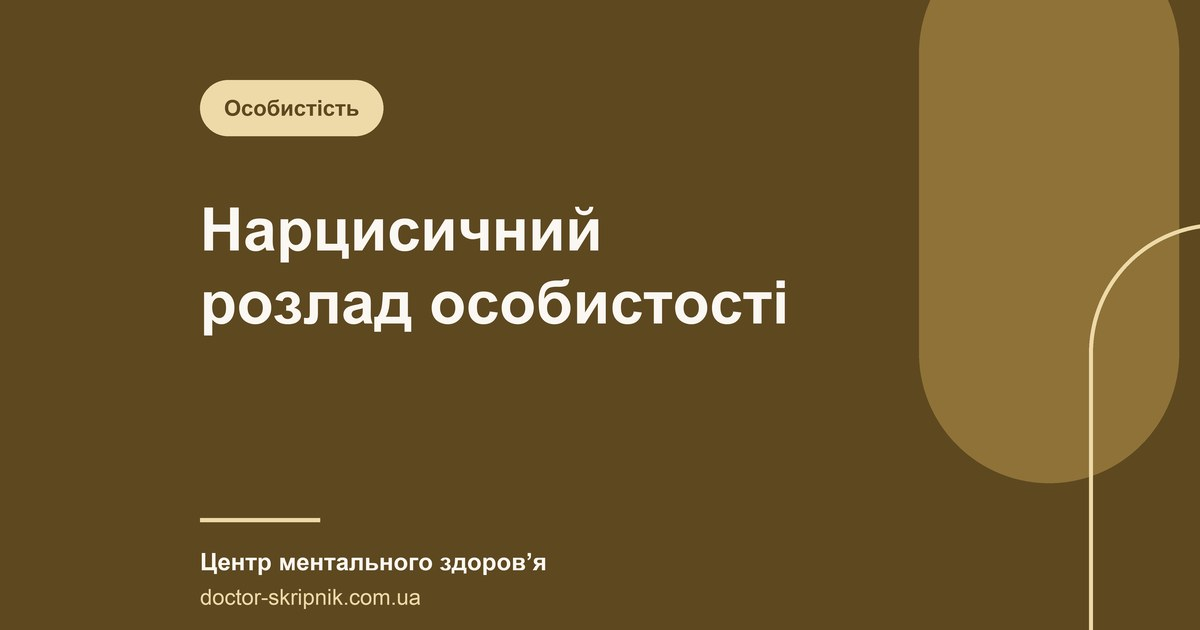
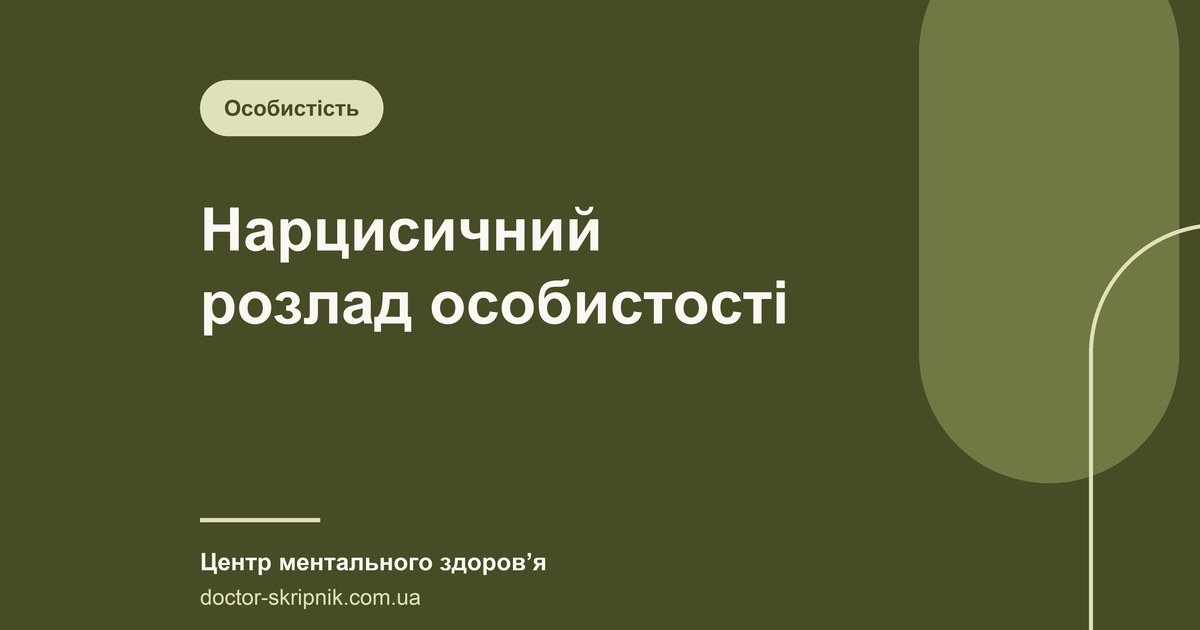
Give every article cover its own palette and show covers uncropped everywhere
Thirteen palettes now, and a new cover takes the least-used one (read from the
existing covers' backgrounds), so colours repeat as rarely as possible. The
eleven current covers each use a different palette. Article cards, the list
and the home thumbnails use the covers' 1200×630 shape instead of 16:10 / 4:3.

diff --git a/apps/frontend/src/app/features/articles/components/article-card/article-card.component.scss b/apps/frontend/src/app/features/articles/components/article-card/article-card.component.scss
@@ -28,7 +28,7 @@
 
   &__thumb {
     position: relative;
-    aspect-ratio: 16 / 10;
+    aspect-ratio: 1200 / 630; // the covers' own shape, so a banner is never cropped
     overflow: hidden;
     background: linear-gradient(160deg, $accent-color, $accent-soft);
   }

diff --git a/apps/frontend/src/app/features/articles/list/articles-list.component.scss b/apps/frontend/src/app/features/articles/list/articles-list.component.scss
@@ -239,7 +239,7 @@
   overflow: hidden;
   background: $paper;
 
-  &__thumb { aspect-ratio: 16 / 10; }
+  &__thumb { aspect-ratio: 1200 / 630; } // the covers' own shape
 
   &__body {
     display: flex;

diff --git a/apps/frontend/src/app/features/articles/components/latest-articles/latest-articles.component.scss b/apps/frontend/src/app/features/articles/components/latest-articles/latest-articles.component.scss
@@ -106,7 +106,7 @@
   background: $accent-soft;
 
   &--thumb {
-    aspect-ratio: 4 / 3;
+    aspect-ratio: 1200 / 630;
     margin-bottom: 0;
   }
 }

diff --git a/apps/frontend/scripts/make-article-cover.py b/apps/frontend/scripts/make-article-cover.py
@@ -2,8 +2,8 @@
 
     python3 apps/frontend/scripts/make-article-cover.py --title "Симптоми РДУГ у дорослих" --kicker "РДУГ" --out apps/frontend/src/assets/articles/<slug>.webp
 
-The palette rotates with the number of covers already in the output folder, so two
-consecutive articles never share colours; the composition and the shapes' size and
+The palette is the one least used by the covers already in the output folder (read from
+their background colour; ties go to the one used longest ago), so colours repeat as rarely as possible; the composition and the shapes' size and
 position come from the file name, so each article keeps its own look when regenerated.
 The cover is served from https://doctor-skripnik.com.ua/assets/articles/<slug>.webp once
 the frontend is deployed; set that URL as the article's coverImage. A 1200×630 <slug>.jpg is
@@ -36,6 +36,12 @@ PALETTES = [
     {'bg': '#5e4820', 'shape': '#8f7238', 'accent': '#eed9a8'},  # ochre / sand
     {'bg': '#5f3431', 'shape': '#8c5550', 'accent': '#ebc1bc'},  # oxblood / rose clay
     {'bg': '#1f4645', 'shape': '#3f6e6c', 'accent': '#bcdcda'},  # deep teal / mist
+    {'bg': '#36356b', 'shape': '#5a5a97', 'accent': '#cfcff0'},  # indigo / periwinkle
+    {'bg': '#474c26', 'shape': '#727843', 'accent': '#dfe2b8'},  # olive / moss
+    {'bg': '#6b2f4a', 'shape': '#985070', 'accent': '#f0c6d8'},  # berry / pink
+    {'bg': '#7a4426', 'shape': '#a96a43', 'accent': '#f3cfa9'},  # rust / apricot
+    {'bg': '#33414a', 'shape': '#566874', 'accent': '#cbd8e0'},  # slate / blue-grey
+    {'bg': '#283a2a', 'shape': '#486a4b', 'accent': '#cde3c4'},  # pine / mint
 ]
 
 
@@ -139,19 +145,36 @@ def title_layout(draw, text):
     return f, size, lines[:3]
 
 
+def pick_palette(folder, name):
+    """Least-used palette among existing covers; among equals, the one whose last use is oldest."""
+    uses = {i: (0, 0.0) for i in range(len(PALETTES))}
+    rgb = [tuple(int(p['bg'][k:k + 2], 16) for k in (1, 3, 5)) for p in PALETTES]
+    if os.path.isdir(folder):
+        for f in os.listdir(folder):
+            if not f.endswith('.webp') or f == name:
+                continue
+            path = os.path.join(folder, f)
+            px = Image.open(path).convert('RGB').getpixel((4, 4))
+            # WebP compression shifts colours slightly, so match the nearest background
+            dist, i = min((sum((a - b) ** 2 for a, b in zip(px, c)), i) for i, c in enumerate(rgb))
+            if dist <= 300:
+                count, last = uses[i]
+                uses[i] = (count + 1, max(last, os.path.getmtime(path)))
+    return min(uses, key=lambda i: (uses[i][0], uses[i][1], i))
+
+
 def main():
     ap = argparse.ArgumentParser()
     ap.add_argument('--title', required=True, help='short banner title, ~2–6 words')
     ap.add_argument('--kicker', required=True, help='topic chip, e.g. "РДУГ", "Депресія"')
     ap.add_argument('--out', required=True)
-    ap.add_argument('--palette', type=int, help='palette index 0–6, to override the rotation when redrawing several covers at once')
+    ap.add_argument('--palette', type=int, help='palette index 0–12, instead of the least-used one')
     args = ap.parse_args()
 
     name = os.path.basename(args.out)
     folder = os.path.dirname(args.out) or '.'
-    existing = sorted(f for f in os.listdir(folder) if f.endswith('.webp') and f != name) if os.path.isdir(folder) else []
     seed = hashlib.md5(name.encode()).digest()
-    palette = PALETTES[(args.palette if args.palette is not None else len(existing)) % len(PALETTES)]
+    palette = PALETTES[(args.palette if args.palette is not None else pick_palette(folder, name)) % len(PALETTES)]
     layout = LAYOUTS[seed[0] % len(LAYOUTS)]
 
     im = Image.new('RGB', (W * SUPERSAMPLE, H * SUPERSAMPLE), palette['bg'])
